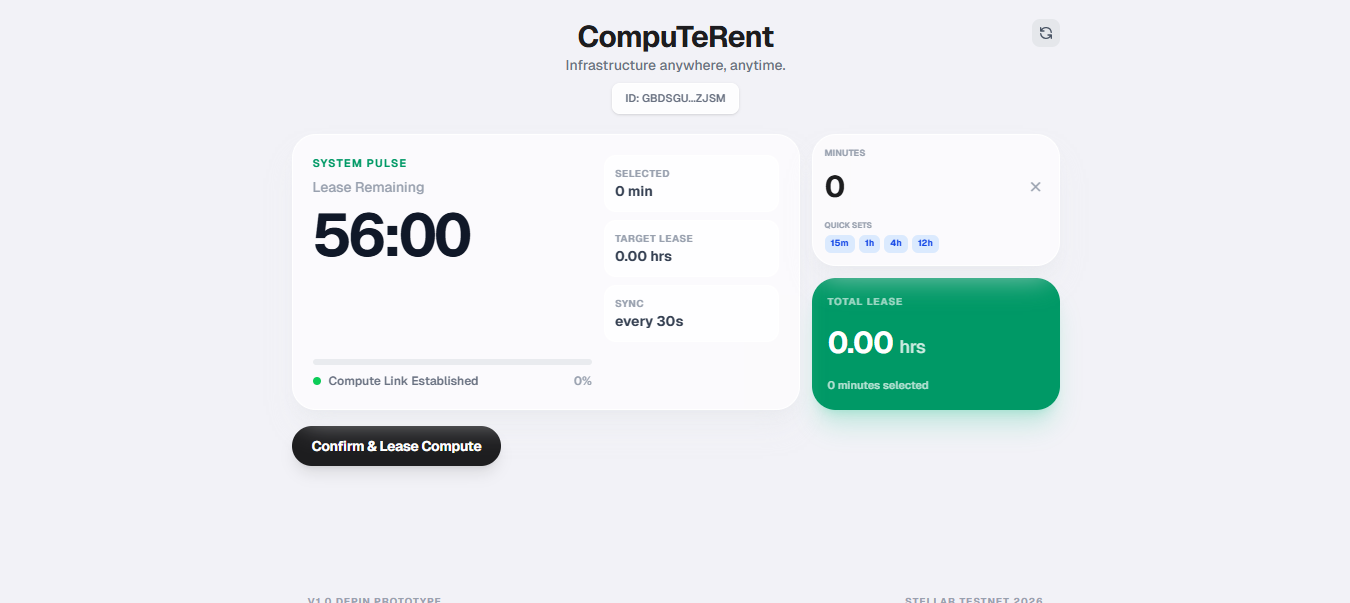
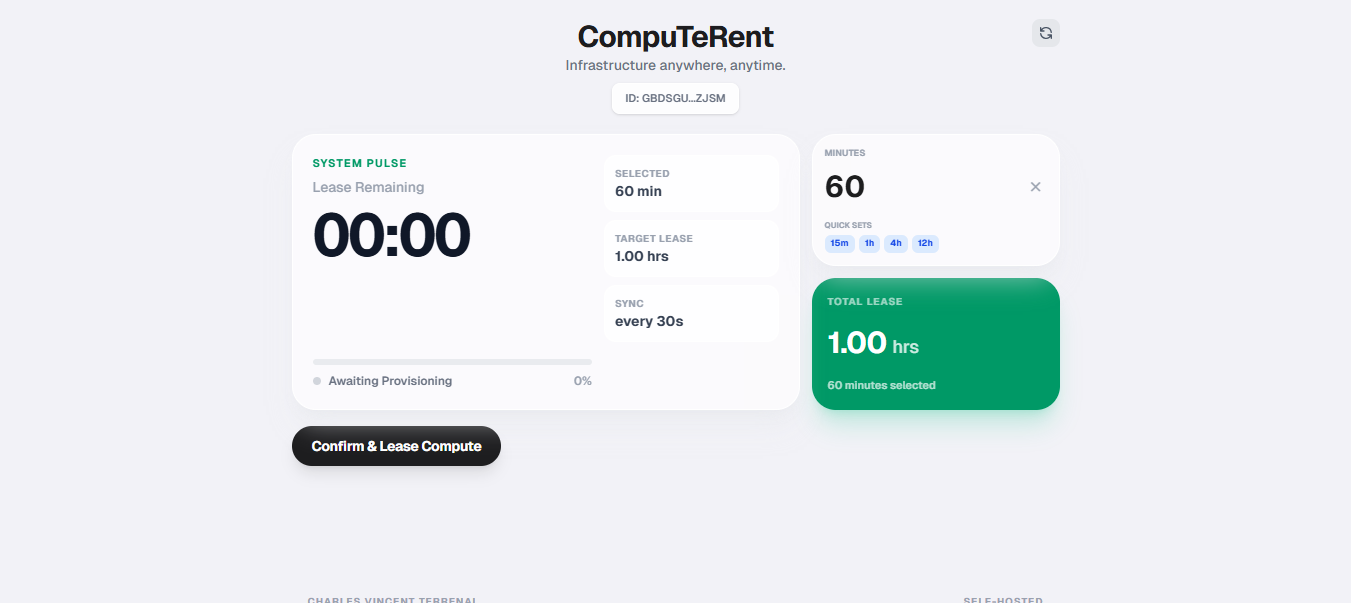
modified UI elements

diff --git a/frontend/src/app/page.tsx b/frontend/src/app/page.tsx
@@ -230,8 +230,8 @@ export default function Home() {
         )}
 
           <footer className="mt-8 sm:mt-10 flex flex-col sm:flex-row gap-2 sm:gap-0 justify-between items-center px-2 sm:px-4">
-           <p className="text-[10px] font-bold text-gray-400 uppercase tracking-widest">v1.0 DePIN Prototype</p>
-           <p className="text-[10px] font-bold text-gray-400 uppercase tracking-widest">Stellar Testnet 2026</p>
+           <p className="text-[10px] font-bold text-gray-400 uppercase tracking-widest">Charles Vincent Terrenal</p>
+           <p className="text-[10px] font-bold text-gray-400 uppercase tracking-widest">Self-hosted</p>
         </footer>
       </div>
     </main>
